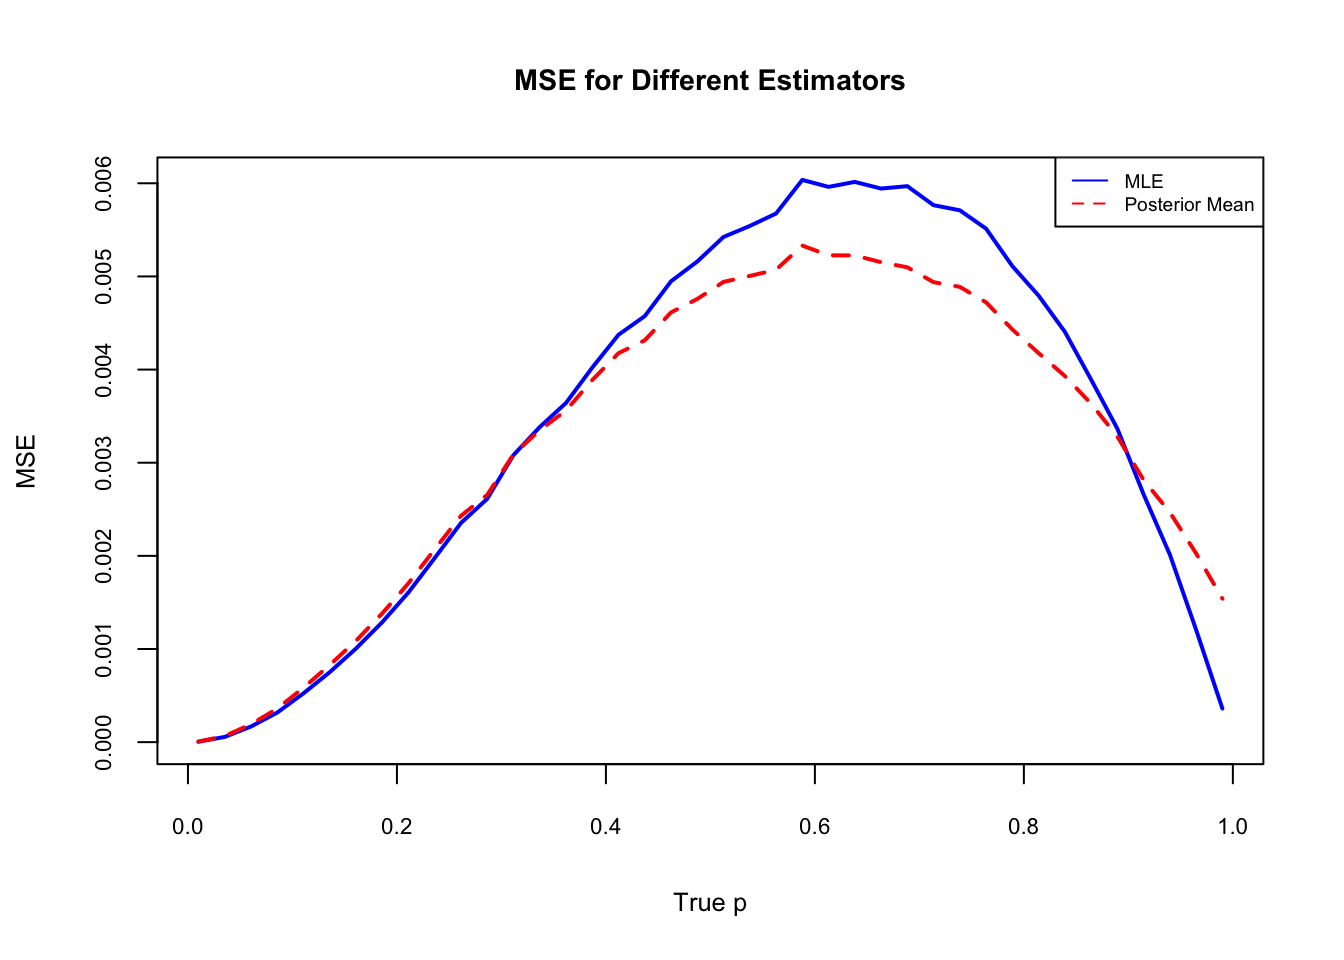
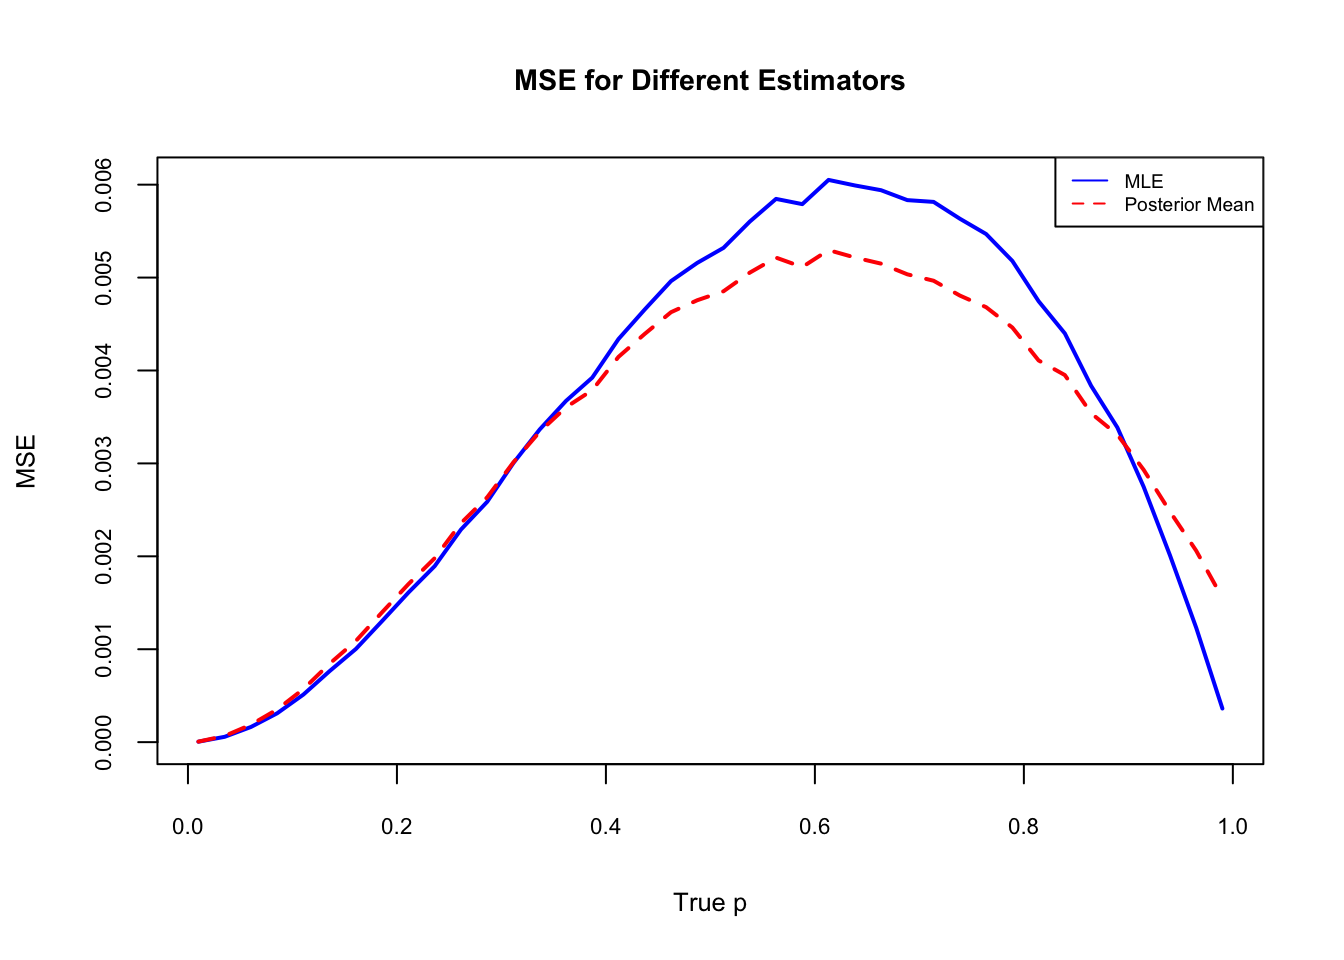
more updates

diff --git a/docs/Week2.html b/docs/Week2.html
@@ -278,9 +278,9 @@ window.Quarto = {
 
 <section id="background" class="level2" data-number="2.1">
 <h2 data-number="2.1" class="anchored" data-anchor-id="background"><span class="header-section-number">2.1</span> Background</h2>
-<p>This chapter covers a variety of topics. First, I will dive into some cool properties regarding the score, which is the derivative of the log likelihood. One integration technique I will use for this in “Differentiation Under the Integral Sign”. It is a cool trick that allows you to move a derivative outside of the integral.</p>
-<p>I will then dive into another way to evaluate estimators. In Chapter 1, we looked at the bias and variance of <span class="math inline">\(\hat{p}_{MLE}\)</span> and <span class="math inline">\(\hat{p}_{PM}\)</span>, but this time I will use frequentist Mean Squared Error to compare them. This is defined as MSE = <span class="math inline">\(\mathbb{E}[(\hat{\theta} - \theta)^2]\)</span>. The MSE can famously be decomposed as the (Bias<span class="math inline">\(^2\)</span> + Variance). So, while last chapter we looked at bias and variance, MSE serves as an all-encompassing metric. So, I will compare the MSE of my MLE and Posterior Mean from Chapter 1.</p>
-<p>Next, I will prove the Cramer-Rao Lower Bound (CRLB), evaluate the Cramer-Rao Lower Bound (CRLB) for my distribution, and see if it is relevant to the MLE and Posterior Mean I calculated in Chapter 1. In class, we learned that the CRLB is a lower bound to the variance of an unbiased estimator. This means of all unbiased estimators, if one reaches the CRLB, then it is the best unbiased estimator. This is very insightful. It means once we’ve reached that bound, there is no point evaluating other unbiased estimators, as there cannot be a unbiased estimator with a lower variance that the one that reaches the CRLB.</p>
+<p>This chapter covers a variety of topics. First, I will dive into some cool properties regarding the score, which is the derivative of the log likelihood. One integration technique I will use for this is “Differentiation Under the Integral Sign”. It is a cool trick that allows you to move a derivative outside of the integral.</p>
+<p>Then, we will take a nice short break from proofs, and I will then dive into another way to evaluate estimators. In Chapter 1, we looked at the bias and variance of <span class="math inline">\(\hat{p}_{MLE}\)</span> and <span class="math inline">\(\hat{p}_{PM}\)</span>, but this time I will use frequentist Mean Squared Error to compare them. This is defined as MSE = <span class="math inline">\(\mathbb{E}[(\hat{\theta} - \theta)^2]\)</span>. The MSE can famously be decomposed as the (Bias<span class="math inline">\(^2\)</span> + Variance). So, while last chapter we looked at bias and variance, MSE serves as an all-encompassing metric. So, I will compare the MSE of my MLE and Posterior Mean from Chapter 1.</p>
+<p>Alas, after discussing MSE, our short break from proofs will have concluded. I will next prove the Cramer-Rao Lower Bound (CRLB), evaluate the CRLB for my distribution, and see if it is relevant to the MLE and Posterior Mean I calculated in Chapter 1. In class, we learned that the CRLB is a lower bound to the variance of an unbiased estimator. This means of all unbiased estimators, if one reaches the CRLB, then it is the best unbiased estimator. This is very insightful. It means once we’ve reached that bound, there is no point evaluating other unbiased estimators, as there cannot be a unbiased estimator with a lower variance that the one that reaches the CRLB.</p>
 <p>As an extra note, the CRLB is defined as <span class="math inline">\(\frac{1}{I(\theta)}\)</span>, where <span class="math inline">\(I(\theta)\)</span> is defined as the variance of the score (which is the derivative of the log-likelihood). I will prove this later on in this chapter. It is important to note that some of the equations I derive in the first part of this chapter will make it easier to solve for the CRLB for my distribution.</p>
 </section>
 <section id="proving-textvarelltheta--mathbbeelltheta" class="level2" data-number="2.2">
@@ -389,7 +389,7 @@ L_x(\theta) &amp;= f_\theta(x) \\
 </div>
 </div>
 </div>
-<p>As we can see, at different true <span class="math inline">\(p\)</span> values, one estimator may be better than the other.</p>
+<p>As we can see, at different true <span class="math inline">\(p\)</span> values, one estimator may be better than the other. This is an interesting result, as we cannot declare one estimator to be better than the other using frequentist MSE.</p>
 </section>
 <section id="proving-the-cramer-rao-lower-bound" class="level2" data-number="2.4">
 <h2 data-number="2.4" class="anchored" data-anchor-id="proving-the-cramer-rao-lower-bound"><span class="header-section-number">2.4</span> Proving the Cramer-Rao Lower Bound</h2>

diff --git a/docs/Week8.html b/docs/Week8.html
@@ -2138,7 +2138,7 @@ globalThis.qwebrCreateMonacoEditorInstance = function (cellData) {
 \]</span></p>
 <div id="qwebr-insertion-location-2"></div>
 <noscript>Please enable JavaScript to experience the dynamic code cell content on this page.</noscript>
-<p>My Bayes Factor is <span class="math inline">\(607815364\)</span>, meaning there is very strong evidence to reject the null hypothesis per the criteria in Kass and Raftery (1995).</p>
+<p>My Bayes Factor is <span class="math inline">\(607815364\)</span>, meaning there is very strong evidence to reject the null hypothesis per the criteria in <span class="citation" data-cites="Kass1995">(<a href="#ref-Kass1995" role="doc-biblioref"><strong>Kass1995?</strong></a>)</span>.</p>
 <p>In Chapter 7, using Frequentist Hypothesis Testing methods, I also rejected the null hypothesis. So, both methods reached the same conclusion, in that we rejected <span class="math inline">\(H_0\)</span> (we reject the hypothesis that COVID has the same contagious level as the flu). As my Bayesian and frequenist hypothesis tests both come to the same conclusion, I did not encounter Lindley’s paradox.</p>
 
 

diff --git a/index.tex b/index.tex
@@ -576,28 +576,30 @@ Estimators}\label{further-evaluating-estimators}
 
 This chapter covers a variety of topics. First, I will dive into some
 cool properties regarding the score, which is the derivative of the log
-likelihood. One integration technique I will use for this in
+likelihood. One integration technique I will use for this is
 ``Differentiation Under the Integral Sign''. It is a cool trick that
 allows you to move a derivative outside of the integral.
 
-I will then dive into another way to evaluate estimators. In Chapter 1,
-we looked at the bias and variance of \(\hat{p}_{MLE}\) and
-\(\hat{p}_{PM}\), but this time I will use frequentist Mean Squared
-Error to compare them. This is defined as MSE =
-\(\mathbb{E}[(\hat{\theta} - \theta)^2]\). The MSE can famously be
-decomposed as the (Bias\(^2\) + Variance). So, while last chapter we
-looked at bias and variance, MSE serves as an all-encompassing metric.
-So, I will compare the MSE of my MLE and Posterior Mean from Chapter 1.
+Then, we will take a nice short break from proofs, and I will then dive
+into another way to evaluate estimators. In Chapter 1, we looked at the
+bias and variance of \(\hat{p}_{MLE}\) and \(\hat{p}_{PM}\), but this
+time I will use frequentist Mean Squared Error to compare them. This is
+defined as MSE = \(\mathbb{E}[(\hat{\theta} - \theta)^2]\). The MSE can
+famously be decomposed as the (Bias\(^2\) + Variance). So, while last
+chapter we looked at bias and variance, MSE serves as an
+all-encompassing metric. So, I will compare the MSE of my MLE and
+Posterior Mean from Chapter 1.
 
-Next, I will prove the Cramer-Rao Lower Bound (CRLB), evaluate the
-Cramer-Rao Lower Bound (CRLB) for my distribution, and see if it is
-relevant to the MLE and Posterior Mean I calculated in Chapter 1. In
-class, we learned that the CRLB is a lower bound to the variance of an
-unbiased estimator. This means of all unbiased estimators, if one
-reaches the CRLB, then it is the best unbiased estimator. This is very
-insightful. It means once we've reached that bound, there is no point
-evaluating other unbiased estimators, as there cannot be a unbiased
-estimator with a lower variance that the one that reaches the CRLB.
+Alas, after discussing MSE, our short break from proofs will have
+concluded. I will next prove the Cramer-Rao Lower Bound (CRLB), evaluate
+the CRLB for my distribution, and see if it is relevant to the MLE and
+Posterior Mean I calculated in Chapter 1. In class, we learned that the
+CRLB is a lower bound to the variance of an unbiased estimator. This
+means of all unbiased estimators, if one reaches the CRLB, then it is
+the best unbiased estimator. This is very insightful. It means once
+we've reached that bound, there is no point evaluating other unbiased
+estimators, as there cannot be a unbiased estimator with a lower
+variance that the one that reaches the CRLB.
 
 As an extra note, the CRLB is defined as \(\frac{1}{I(\theta)}\), where
 \(I(\theta)\) is defined as the variance of the score (which is the
@@ -744,7 +746,8 @@ Error for different \(p\), for when \(n=50\) and \(r=0.5\).
 \pandocbounded{\includegraphics[keepaspectratio]{Week2_files/figure-pdf/unnamed-chunk-1-1.pdf}}
 
 As we can see, at different true \(p\) values, one estimator may be
-better than the other.
+better than the other. This is an interesting result, as we cannot
+declare one estimator to be better than the other using frequentist MSE.
 
 \section{Proving the Cramer-Rao Lower
 Bound}\label{proving-the-cramer-rao-lower-bound}
@@ -2378,8 +2381,8 @@ denominator{]}.
 \end{Shaded}
 
 My Bayes Factor is \(607815364\), meaning there is very strong evidence
-to reject the null hypothesis per the criteria in Kass and Raftery
-(1995).
+to reject the null hypothesis per the criteria in
+(\citeproc{ref-Kass1995}{\textbf{Kass1995?}}).
 
 In Chapter 7, using Frequentist Hypothesis Testing methods, I also
 rejected the null hypothesis. So, both methods reached the same
